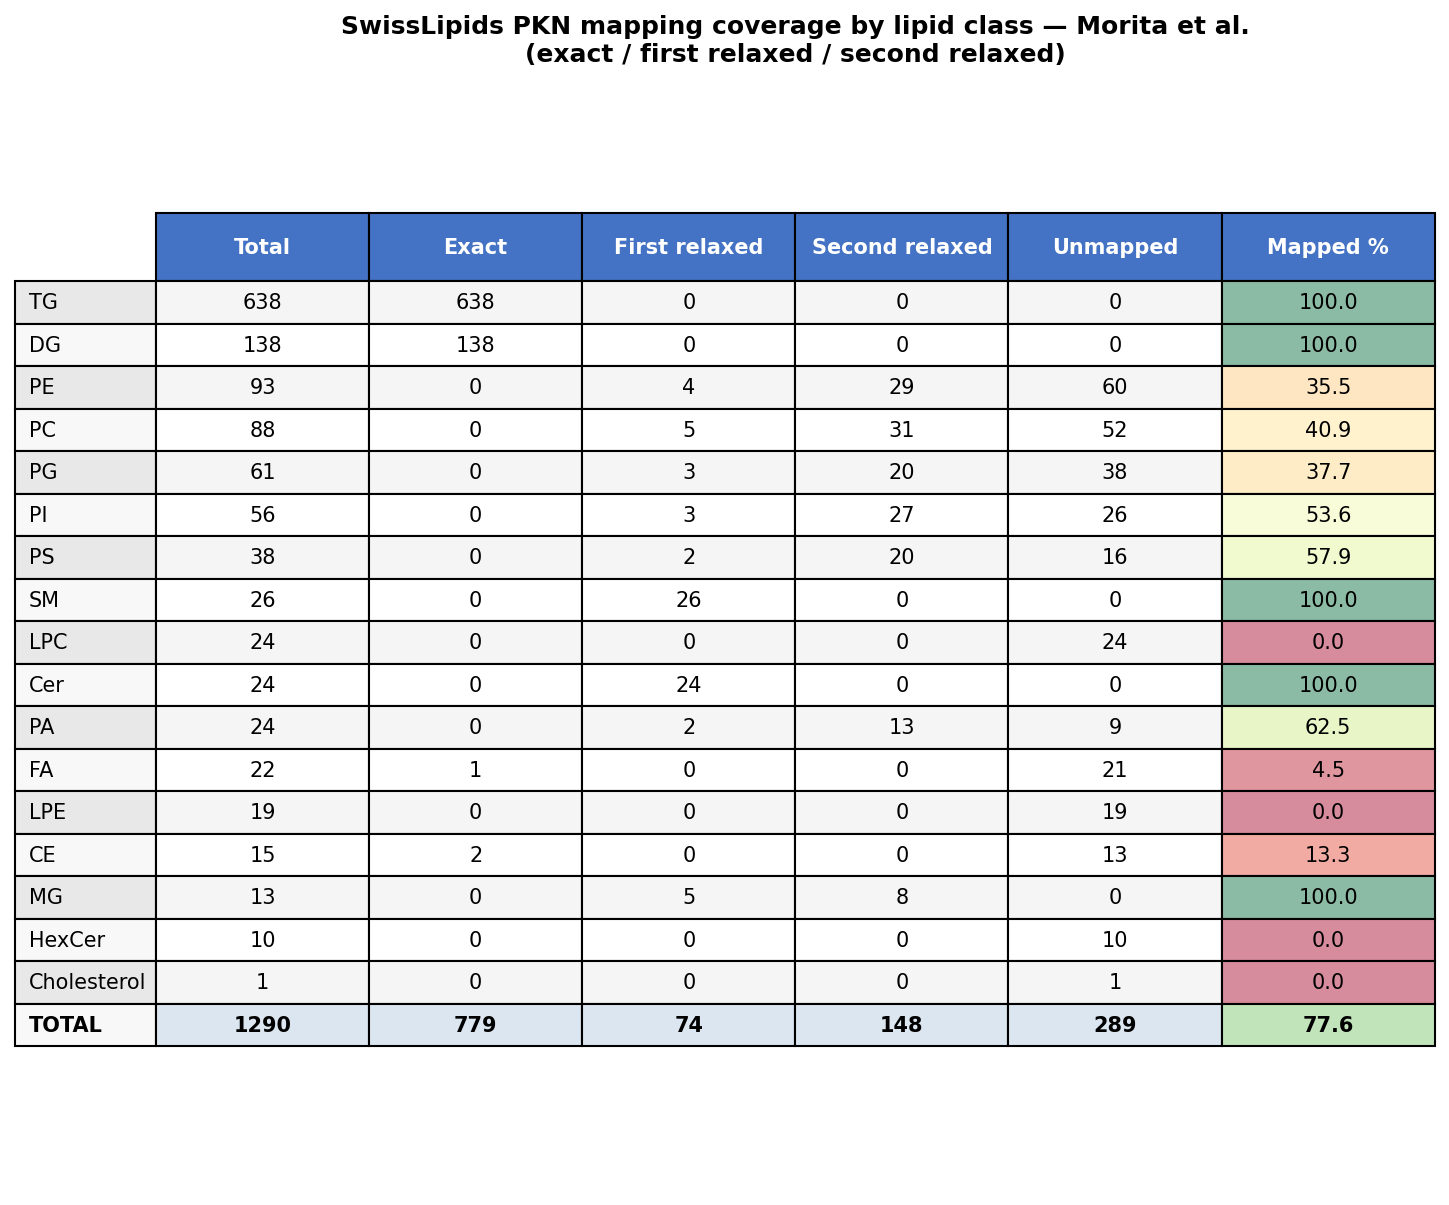
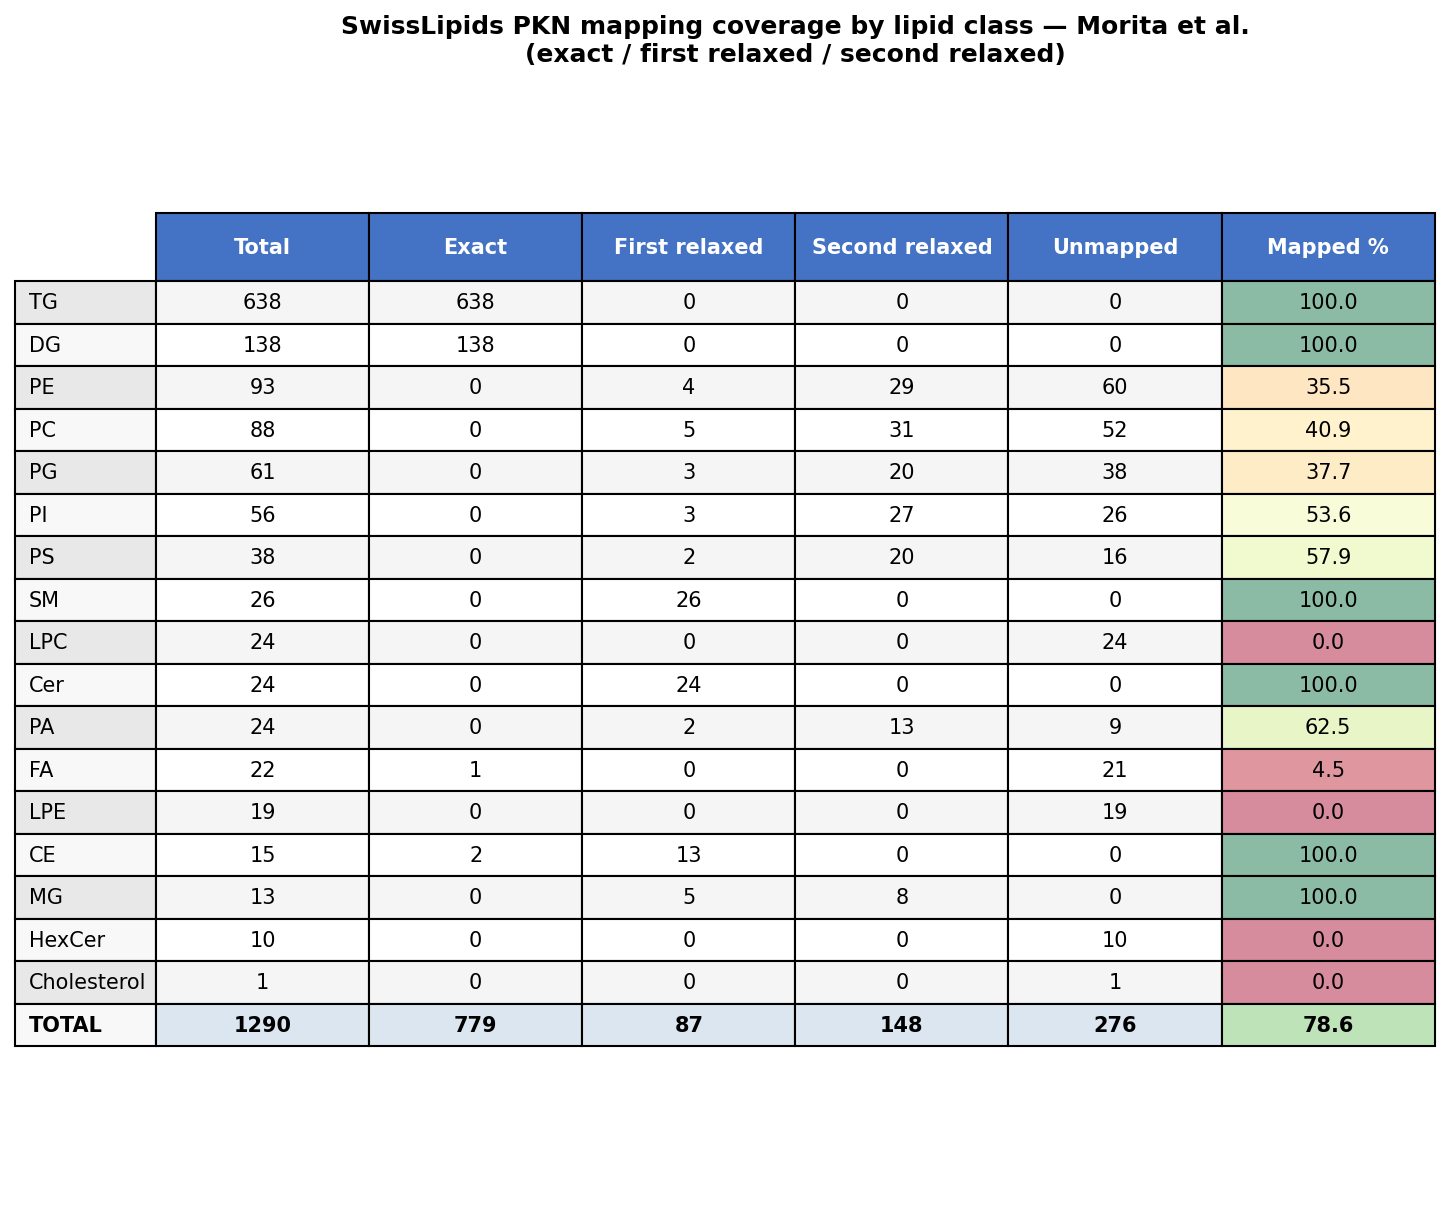
updated

Changed region(s): [[0.8385, 0.6755, 0.9938, 0.7369], [0.4658, 0.829, 0.4969, 0.8598]]

diff --git a/lipidomics_feature_space/README.md b/lipidomics_feature_space/README.md
@@ -85,5 +85,52 @@ Flag the conflict — keep both, set level_inferred = MOLECULAR_SPECIES and leve
 ![img](swisslipids_final_coverage.png)
 ![img](swisslipids_pkn_coverage.png)
 
+### Travel the tree to change granurality level
+
+
+| Lipid class | Exact                | First relaxed                    | Second relaxed                   |
+| ----------- | -------------------- | -------------------------------- | -------------------------------- |
+| TG          | `TG(12:0_14:0_18:2)` | -                                | -                                |
+| DG          | `DG(12:0_16:0)`      | -                                | -                                |
+| PE          | `PE(14:0_22:1)`      | `PE(14:0/22:1)`                  | `PE(14:0/22:1(9Z))`              |
+| PC          | `PC(14:0_16:0)`      | `PC(14:0/16:0)`                  | `PC(14:0/18:1(9Z))`              |
+| PG          | `PG(16:0_16:0)`      | `PG(16:0/16:0)`                  | `PG(16:0/16:1(9Z))`              |
+| PI          | `PI(16:0_16:0)`      | `PI(16:0/16:0)`                  | `PI(16:0/16:1(9Z))`              |
+| PS          | `PS(16:0_18:1)`      | `PS(16:0/18:1)`                  | `PS(16:0/18:1(9Z))`              |
+| SM          | `SM 34:1`            | `SM(d18:1/16:0)`                 | -                                |
+| LPC         | `LPC(14:1)`          | <font color="#ff0000">NaN</font> | <font color="#ff0000">NaN</font> |
+| Cer         | `Cer(d18:1_14:0)`    | `Cer(d18:1/14:0)`                | -                                |
+| PA          | `PA(16:0_16:1)`      | `PA(16:0/16:1)`                  | `PA(16:0/16:1(9Z))`              |
+| FA          | `FA(14:1)`           | <font color="#ff0000">NaN</font> | <font color="#ff0000">NaN</font> |
+| LPE         | `LPE(16:1)`          | <font color="#ff0000">NaN</font> | <font color="#ff0000">NaN</font> |
+| CE          | `CE(16:1)`           | `CE(16:1(9Z))`                   | -                                |
+| MG          | `MG(16:1)`           | `MG(16:0/0:0/0:0)`               | `MG(16:1(9Z)/0:0/0:0)`           |
+| HexCer      | `HexCer(d18:1_16:0)` | <font color="#ff0000">NaN</font> | <font color="#ff0000">NaN</font> |
+| Cholesterol | `Cholesterol`        | <font color="#ff0000">NaN</font> | <font color="#ff0000">NaN</font> |
+
+### Lipids failed to match 
+- No annotation of Lysophospholipid
+	- LPC
+	- LPE
+- FA: Not many FA annotation 
+- Cholesterol: No annotation
+- HexCer: There are `GlcCer` and `GalCer` annotated but no annotation of HexCer
+
+### Special case: HexCer, GlcCer and GalCer
+- Glc and Gal are stereoisomers of hexose, differing only in the orientation of the hydroxyl group at C4
+- $HexCer \supseteq {GlcCer, GalCer}$
+
+|Abbreviation|Full Name|Sugar|Stereoisomer|
+|---|---|---|---|
+|GlcCer|Glucosylceramide|Glucose|β-Glc|
+|GalCer|Galactosylceramide|Galactose|β-Gal|
+|HexCer|Hexosylceramide|Glucose **or** Galactose|Unknown / Unresolved|
+
+![img](https://ars.els-cdn.com/content/image/1-s2.0-S0022227520326778-gr1.jpg)
+
+### Discussion 
+- Absolute level unification is structurally infeasible 
+- relative traversal (N steps down) is a more practical alternative
+
 ---
 
